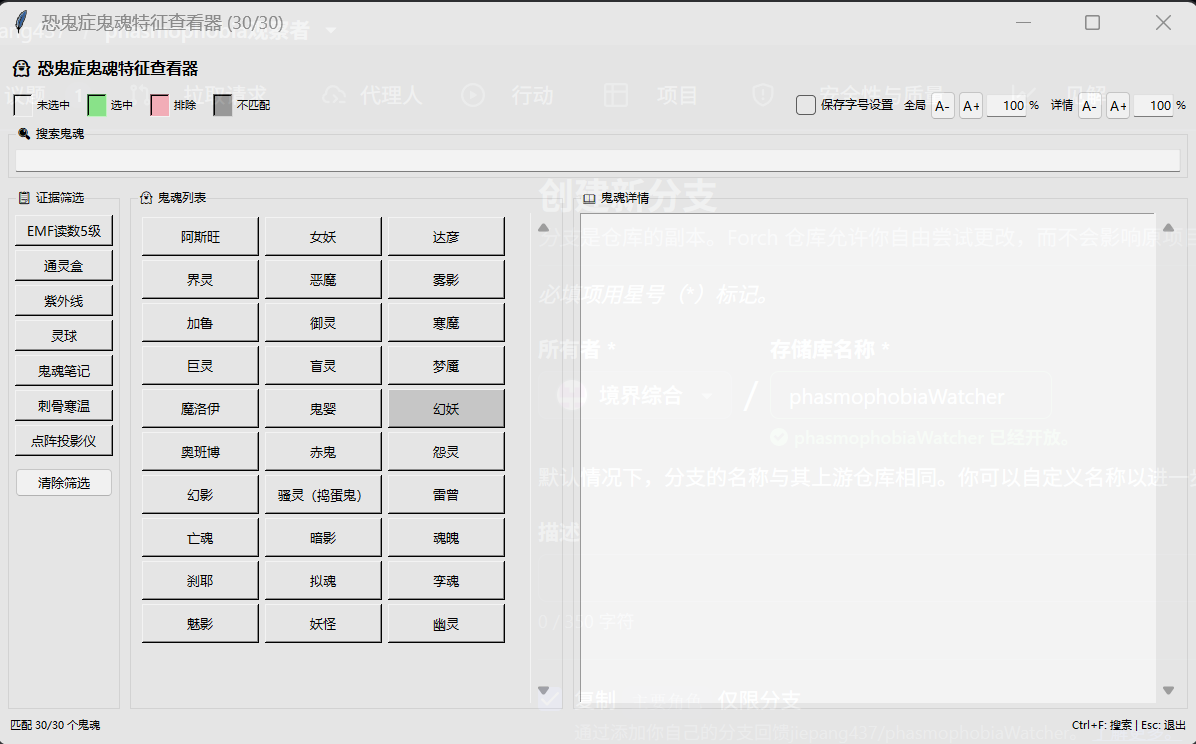
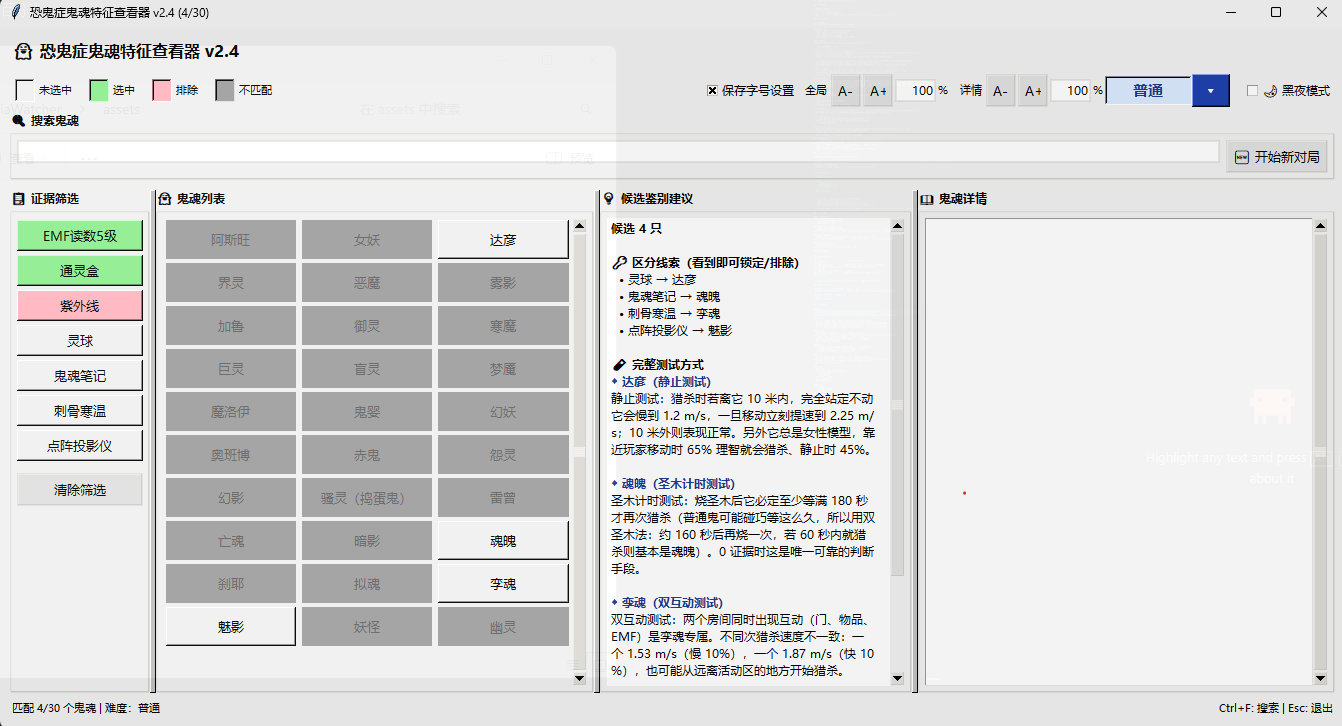
增加更新公告

diff --git a/更新公告.md b/更新公告.md
@@ -1,0 +1,99 @@
+# 👻 恐鬼症鬼魂特征查看器 · 更新公告
+
+> **当前版本：v2.4**（本次更新覆盖 v2.1.1 → v2.4）
+
+---
+
+## 📌 本次更新总览
+
+本版本在原有「证据三态筛选 + 鬼魂详情 + 悬浮窗」的基础上，带来了 **难度模式、对局进度追踪、候选鉴别建议、可调栏宽、黑夜模式** 五大能力，并修复了悬浮窗恢复与中文排版换行两个问题。
+
+---
+
+## 🆕 新功能
+
+### 🎚 v2.2 · 难度模式（普通 / 噩梦 / 疯人院 / 零证据）
+
+- **普通**：标准玩法，全部 7 种证据可筛选
+- **噩梦**（2 条证据）与 **疯人院**（1 条证据）：
+  - 每只鬼有 1 条**强制证据**必定出现在笔记本上，自动套用推理规则：
+    御灵→点阵投影仪、幻妖→紫外线、寒魔→刺骨寒温、魔洛伊→通灵盒、雾影→通灵盒、拟魂→灵球
+  - 确认满对应数量的证据后，自动排除"强制证据不在其中"的鬼
+  - 最多只能确认对应条数（噩梦 2 条、疯人院 1 条），防止误填
+  - 详情面板会标注「⭐ 强制证据」
+- **零证据**：禁用证据筛选，靠行为特征与识别技巧判断
+- 难度切换时自动清空证据筛选
+
+### 🆕 v2.3 · 当前对局进度追踪
+
+- 搜索栏右侧新增 **🆕 开始新对局** 按钮：一键清空搜索、证据筛选与鬼魂选择状态
+- 噩梦/疯人院下，状态栏实时显示「已确认证据 X/槽位数」
+- 候选只剩 1 只时，状态栏自动标记 **✅ 已锁定**
+
+### 💡 v2.3 · 候选鉴别建议（独立列）
+
+- 候选收窄到 **2–4 只**时，「鬼魂列表」与「鬼魂详情」之间自动出现 **💡 候选鉴别建议** 列
+- **🔑 区分线索**：只出现在部分候选身上的证据，标明每个证据对应哪些候选（看到即可锁定/排除）
+- **🧪 完整测试方式**：每只候选直接显示完整的识别技巧全文（灯光测试、圣木计时测试等），无需逐个点击
+- 候选超过 4 只或不足 2 只时自动隐藏，详情栏自动占满剩余空间
+
+### 📐 v2.3 · 四栏可单独拉宽
+
+- 证据筛选 / 鬼魂列表 / 候选鉴别建议 / 鬼魂详情 之间改为**可拖动分隔条**
+- 每栏都能单独拉宽/收窄；列表栏拉宽后按钮网格自动填满
+- 候选列宽度变化时自动按新宽度重新排版
+
+### 🌙 v2.4 · 黑夜模式
+
+- 右上角新增「🌙 黑夜模式」开关，一键切换深色界面（证据、列表、详情、候选列全部变暗），夜里玩游戏更护眼
+- **Windows 10/11 下系统窗口标题栏也会跟随变为深色**
+- 选择保存到配置，下次启动自动恢复
+- 切换主题不会清空当前的证据筛选、搜索和查看状态
+
+### 🏷 其他
+
+- 窗口标题与界面标题显示**版本号**（v2.4）
+
+---
+
+## 🐛 问题修复
+
+### 修复：按 Esc 收起后再次打开窗口有时仍为缩小后的大小
+
+- **原因**：悬浮模式下重复按 Esc 会覆盖原始窗口几何信息；`overrideredirect` 边框切换是异步的，会把尺寸重置为新内容的请求大小
+- **修复**：
+  - 悬浮模式下连按 Esc 直接忽略，不再覆盖原始几何
+  - 恢复时先让边框切换生效、再应用原始尺寸
+  - 边框切换完成后延时兜底再应用一次，确保最终尺寸正确
+
+### 修复：候选完整测试方式的异常换行
+
+- **原因**：`wrap=WORD` 对中英文混排处理很差——中文被当作长词，出现「行首挂逗号」「行尾挂数字」「只剩几个字的碎片行」
+- **修复**：改为**中文排版禁则断行**——行首不出闭合标点（，。；：等）、行尾不留开括号（（「等），并支持拖动栏宽后自动重排
+
+---
+
+## ⚙ 使用说明速览
+
+| 操作 | 说明 |
+|------|------|
+| 点击证据 | 三态切换：包含（绿）/ 排除（粉）/ 未选（灰） |
+| 点击鬼魂 | 三态切换：选中（绿）/ 排除（粉）/ 未选（灰） |
+| 顶部难度下拉框 | 切换 普通 / 噩梦 / 疯人院 / 零证据 |
+| 搜索框右侧 | 🆕 开始新对局（清空本局状态） |
+| 拖动分隔条 | 单独拉宽/收窄四栏 |
+| 🌙 黑夜模式 | 切换深色界面（含系统标题栏） |
+| Ctrl + F | 聚焦搜索框 |
+| Esc | 缩小为 👻 悬浮窗（单击或右键恢复） |
+| 顶部标题栏 | 按住拖动窗口 |
+
+> 💡 字号调节、保存字号设置、配置持久化（`%APPDATA%\恐鬼症查看器\config.json`）保持不变，配置新增 `dark` 字段用于黑夜模式。
+
+---
+
+## 📥 获取方式
+
+- 直接运行打包产物 **`dist/恐鬼症查看器.exe`**（单文件，无需安装 Python）
+- 或从源码运行：`python src/main.py`
+
+**祝各位调查员猎鬼愉快！👻**
